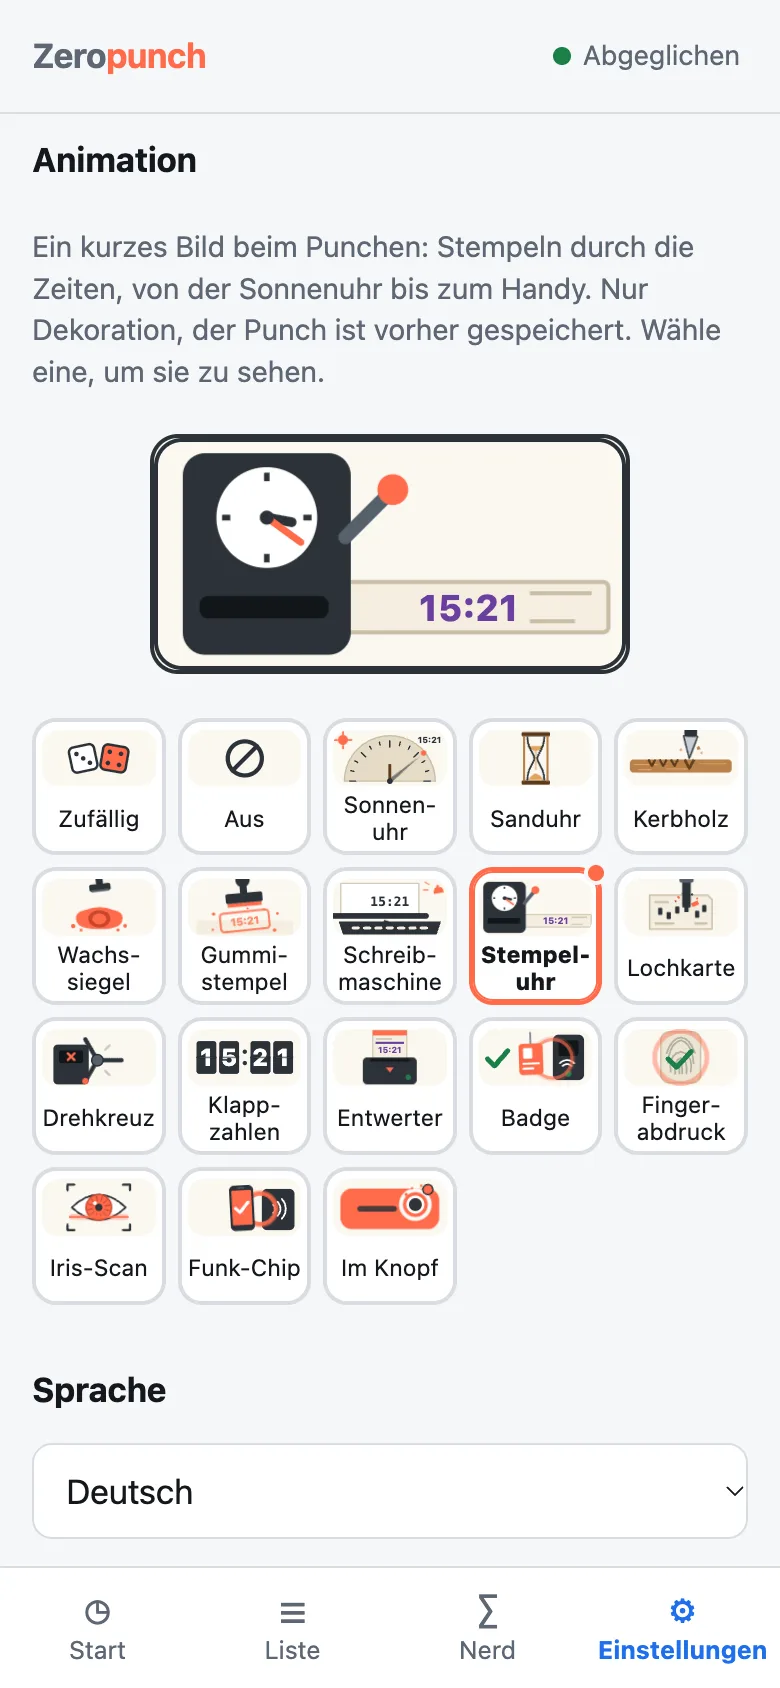
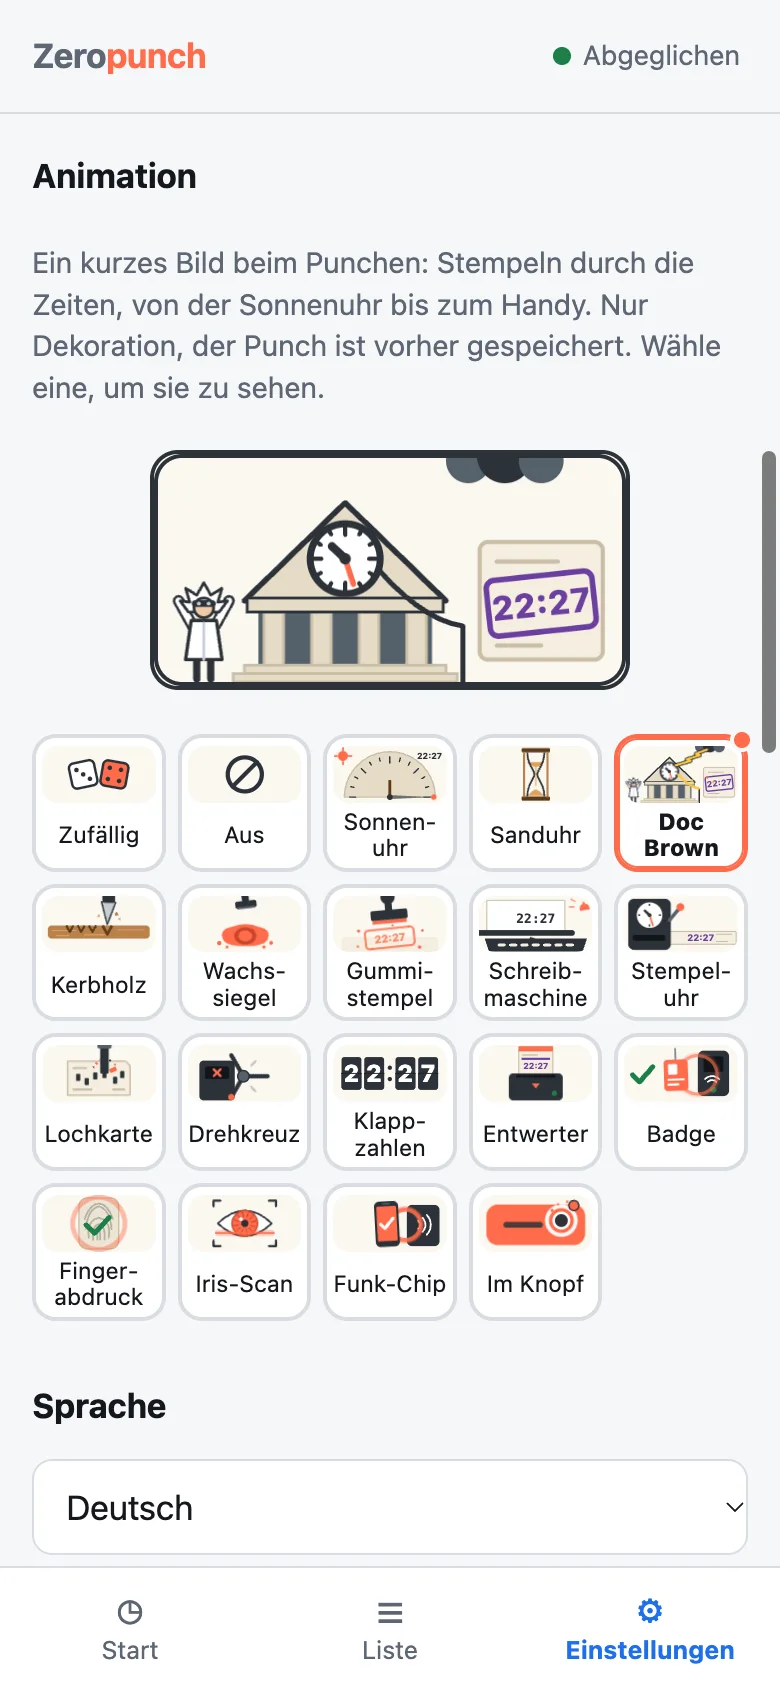
Product site: settings screenshots with seventeen animations, a nudge beside the demo

diff --git a/docs/de/index.html b/docs/de/index.html
@@ -58,7 +58,7 @@
     "https://zeropunch.dropnook.app/screenshots/list-de-light.webp?v=252",
     "https://zeropunch.dropnook.app/screenshots/edit-de-light.webp?v=252",
     "https://zeropunch.dropnook.app/screenshots/nerd-de-light.webp?v=252",
-    "https://zeropunch.dropnook.app/screenshots/settings-fx-de-light.webp?v=260",
+    "https://zeropunch.dropnook.app/screenshots/settings-fx-de-light.webp?v=20261125",
     "https://zeropunch.dropnook.app/screenshots/register-de-light.webp?v=252"
    ],
    "featureList": [
@@ -297,7 +297,7 @@
         <figcaption>Nerd-Modus<small>Saldo, Wochen und Monate</small></figcaption>
       </figure>
       <figure>
-        <picture class="phone"><source media="(prefers-color-scheme: dark)" srcset="../screenshots/settings-fx-de-dark.webp?v=260"><img src="../screenshots/settings-fx-de-light.webp?v=260" width="780" height="1688" loading="lazy" alt="Einstellungen, Animation: eine Vorschau mit der Stempeluhr nach ihrem Punch, 15:21 auf der Karte, darunter ein Raster von Kacheln mit je einem kleinen Bild: Zufällig, Aus und die sechzehn Animationen von der Sonnenuhr bis «Im Knopf», die Stempeluhr ausgewählt"></picture>
+        <picture class="phone"><source media="(prefers-color-scheme: dark)" srcset="../screenshots/settings-fx-de-dark.webp?v=20261125"><img src="../screenshots/settings-fx-de-light.webp?v=20261125" width="780" height="1688" loading="lazy" alt="Einstellungen, Animation: eine Vorschau mit der Turmuhr, in die ein Blitz einschlägt, daneben der gestempelte Zettel mit der Uhrzeit, darunter ein Raster von Kacheln mit je einem kleinen Bild: Zufällig, Aus und die siebzehn Animationen von der Sonnenuhr bis «Im Knopf», «Doc Brown» ausgewählt"></picture>
         <figcaption>Animation<small>Siebzehn zur Wahl</small></figcaption>
       </figure>
       <figure>

diff --git a/docs/index.html b/docs/index.html
@@ -57,7 +57,7 @@
     "https://zeropunch.dropnook.app/screenshots/list-en-light.webp?v=252",
     "https://zeropunch.dropnook.app/screenshots/edit-en-light.webp?v=252",
     "https://zeropunch.dropnook.app/screenshots/nerd-en-light.webp?v=252",
-    "https://zeropunch.dropnook.app/screenshots/settings-fx-en-light.webp?v=260",
+    "https://zeropunch.dropnook.app/screenshots/settings-fx-en-light.webp?v=20261125",
     "https://zeropunch.dropnook.app/screenshots/register-en-light.webp?v=252"
    ],
    "featureList": [
@@ -292,7 +292,7 @@
         <figcaption>Nerd mode<small>Balance, weeks and months</small></figcaption>
       </figure>
       <figure>
-        <picture class="phone"><source media="(prefers-color-scheme: dark)" srcset="screenshots/settings-fx-en-dark.webp?v=260"><img src="screenshots/settings-fx-en-light.webp?v=260" width="780" height="1688" loading="lazy" alt="Settings, Animation: a preview showing the time clock after its punch, with 15:21 on the card, above a grid of tiles with a small picture each: Random, Off and the sixteen animations from Sundial to In the button, Time clock selected"></picture>
+        <picture class="phone"><source media="(prefers-color-scheme: dark)" srcset="screenshots/settings-fx-en-dark.webp?v=20261125"><img src="screenshots/settings-fx-en-light.webp?v=20261125" width="780" height="1688" loading="lazy" alt="Settings, Animation: a preview showing the clock tower struck by lightning, beside it the stamped slip with the time, above a grid of tiles with a small picture each: Random, Off and the seventeen animations from Sundial to In the button, «Doc Brown» selected"></picture>
         <figcaption>Animation<small>Seventeen to choose from</small></figcaption>
       </figure>
       <figure>

diff --git a/docs/demo/demo.css b/docs/demo/demo.css
@@ -142,3 +142,17 @@
   .zd-chips.zd-in, .zd-chips.zd-back, .zd-chip.zd-new { animation: none; }
   .zd .punch { transition: none; }
 }
+
+/* the nudge beside the phone, until the first punch */
+.zd-try { position: absolute; right: calc(100% + 10px); top: 66%; margin: 0; display: flex; align-items: center; gap: 8px;
+  white-space: nowrap; pointer-events: none; font-size: 15px; font-weight: 700; line-height: 1.2; color: var(--accent);
+  animation: zd-try 1.3s ease-in-out infinite; }
+.zd-try-text { padding: 7px 12px; border-radius: 999px; background: var(--accent-soft); }
+.zd-try-hand { font-size: 28px; line-height: 1; }
+@keyframes zd-try { 0%, 100% { transform: translateX(0); } 50% { transform: translateX(8px); } }
+@media (max-width: 960px) {
+  .zd-try { right: auto; left: 50%; top: -46px; flex-direction: column; gap: 2px; animation-name: zd-try-down; margin-left: -90px; width: 180px; }
+  .zd-try-hand { transform: rotate(90deg); }
+  @keyframes zd-try-down { 0%, 100% { transform: translateY(0); } 50% { transform: translateY(6px); } }
+}
+@media (prefers-reduced-motion: reduce) { .zd-try { animation: none; } }

diff --git a/docs/demo/demo.js b/docs/demo/demo.js
@@ -124,7 +124,9 @@ export function mount(old, lang) {
     said,
   );
   const phone = h('div', { class: 'phone zd', role: 'group', 'aria-label': T('phone_aria') }, screen);
-  const wrap = h('div', { class: 'zd-wrap' }, phone, h('p', { class: 'zd-cap' }, T('caption')));
+  // A nudge beside the phone until the first punch: the phone is a demo, not a picture.
+  const tryMe = h('p', { class: 'zd-try', 'aria-hidden': 'true' }, h('span', { class: 'zd-try-text' }, T('try_me')), h('span', { class: 'zd-try-hand' }, '👉'));
+  const wrap = h('div', { class: 'zd-wrap' }, phone, tryMe, h('p', { class: 'zd-cap' }, T('caption')));
 
   // ---------------------------------------------------------------- drawing
   let sig = '';
@@ -294,6 +296,7 @@ export function mount(old, lang) {
     lastTap = t;
     const r = core.tap(st);
     if (!r.punch) return;
+    tryMe.remove();
     st = r.state;
     t0 = t; // the demo clock now stands at this punch and ticks on from there
     glowTs = r.punch.ts;

diff --git a/docs/demo/demo-core.js b/docs/demo/demo-core.js
@@ -179,6 +179,7 @@ export const TEXTS = {
     demo_done: 'That was the demo.',
     restart: 'Start again',
     caption: 'Demo – nothing is stored.',
+    try_me: 'This is a demo, tap me!',
   },
   de: {
     today: 'Heute',
@@ -206,6 +207,7 @@ export const TEXTS = {
     demo_done: 'Das war die Demo.',
     restart: 'Nochmals von vorn',
     caption: 'Demo – nichts wird gespeichert.',
+    try_me: 'Hier Demo, klick mich!',
   },
 };
 
